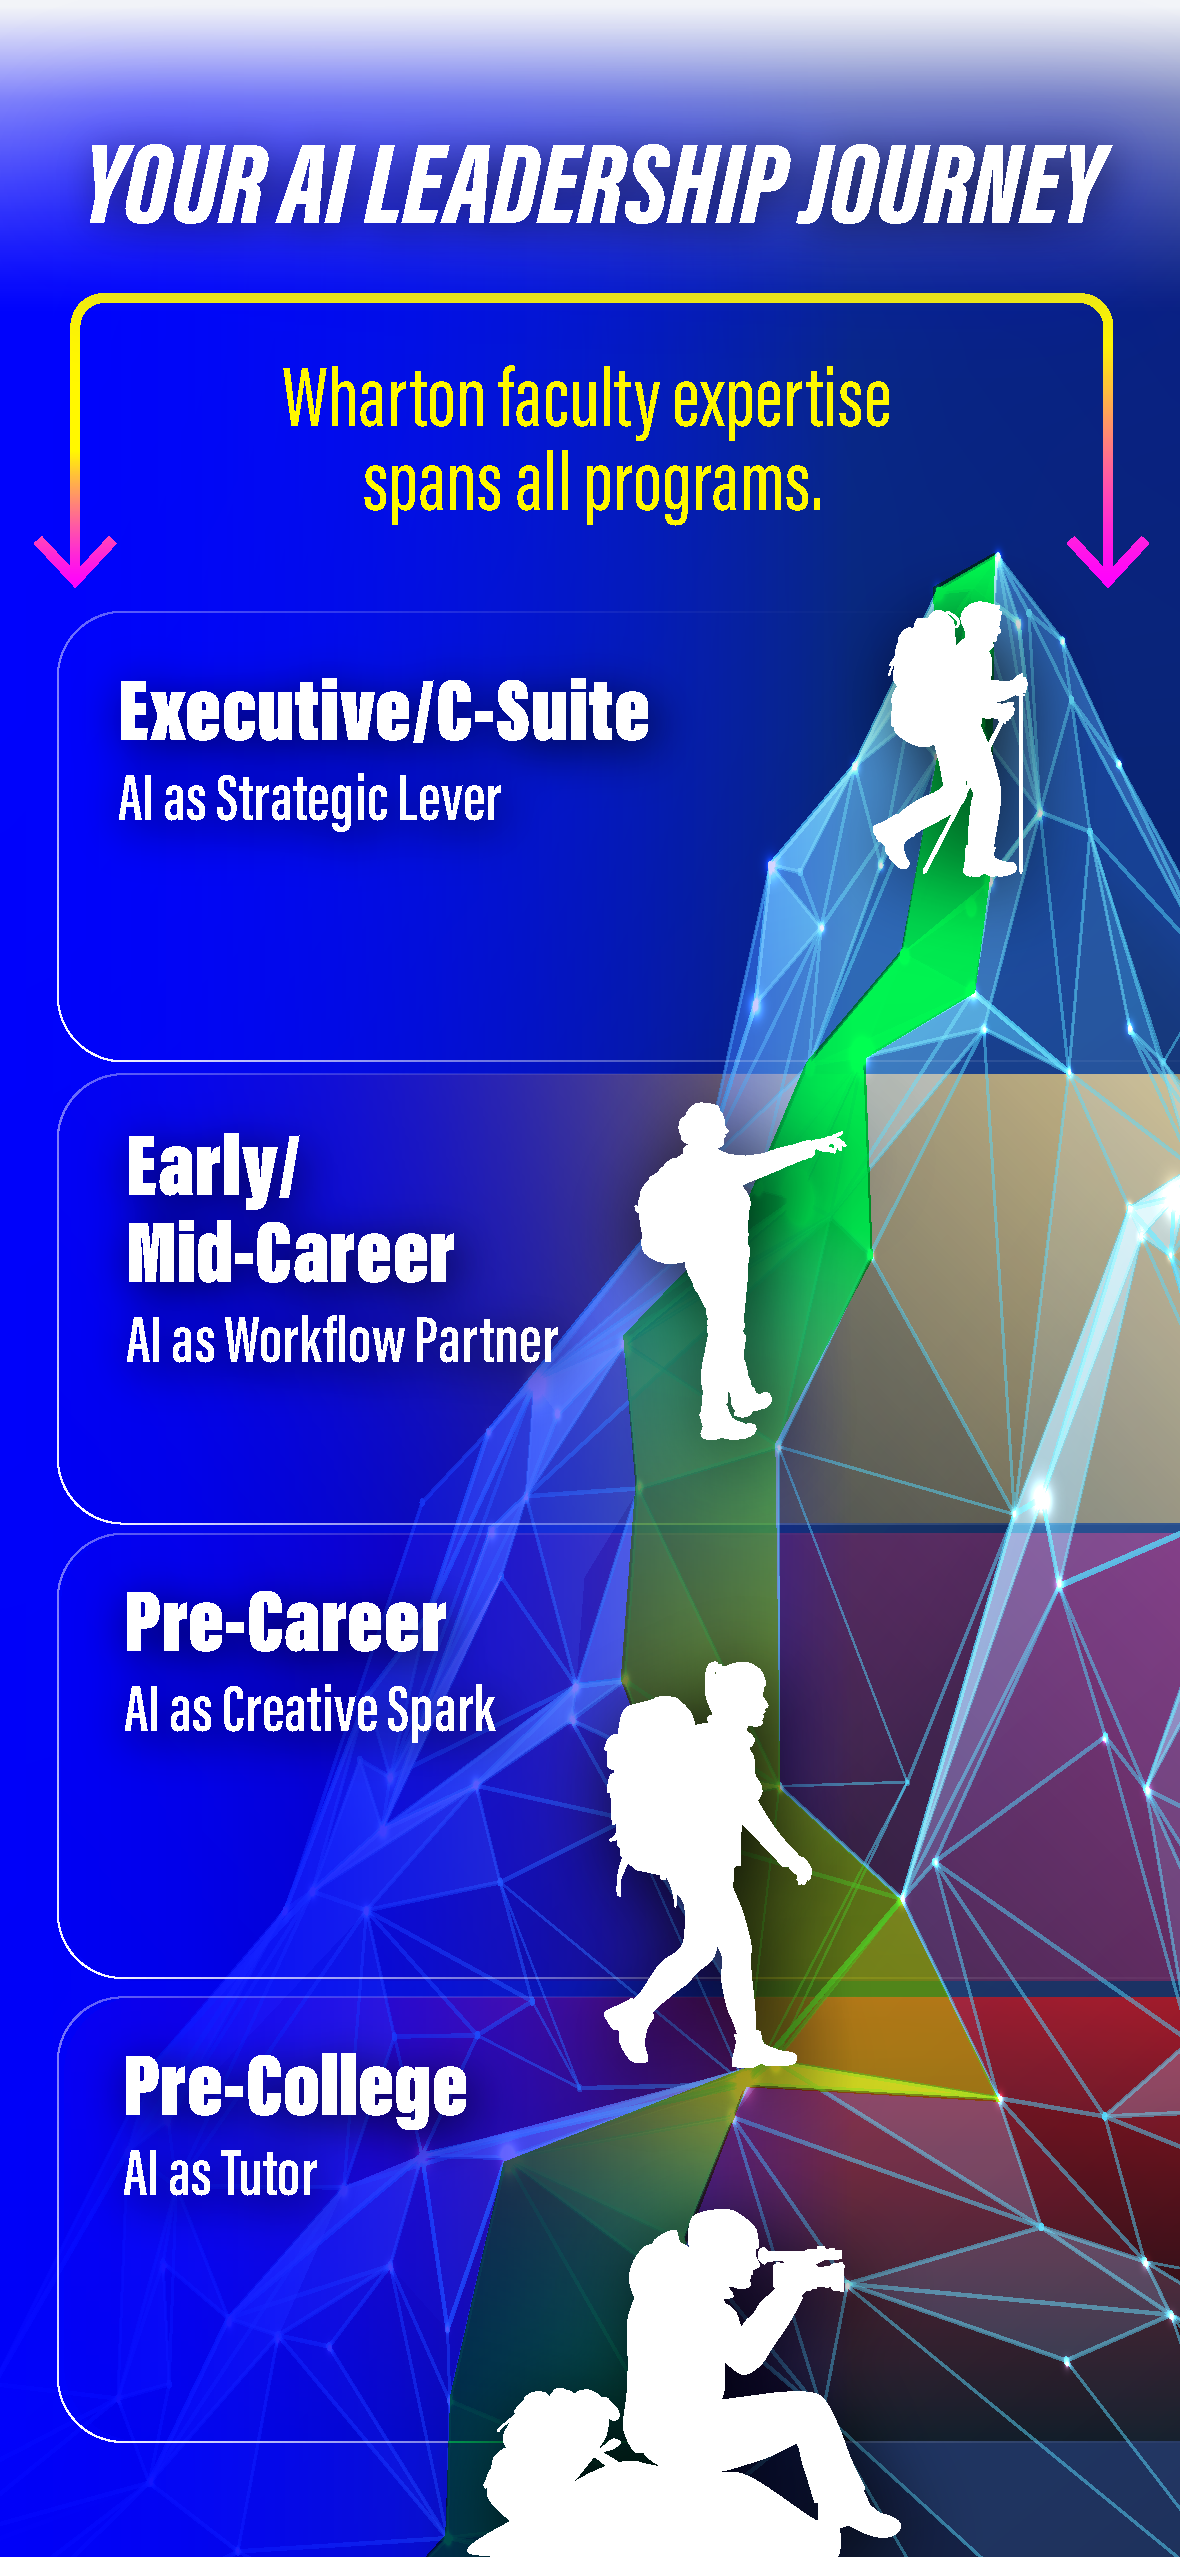
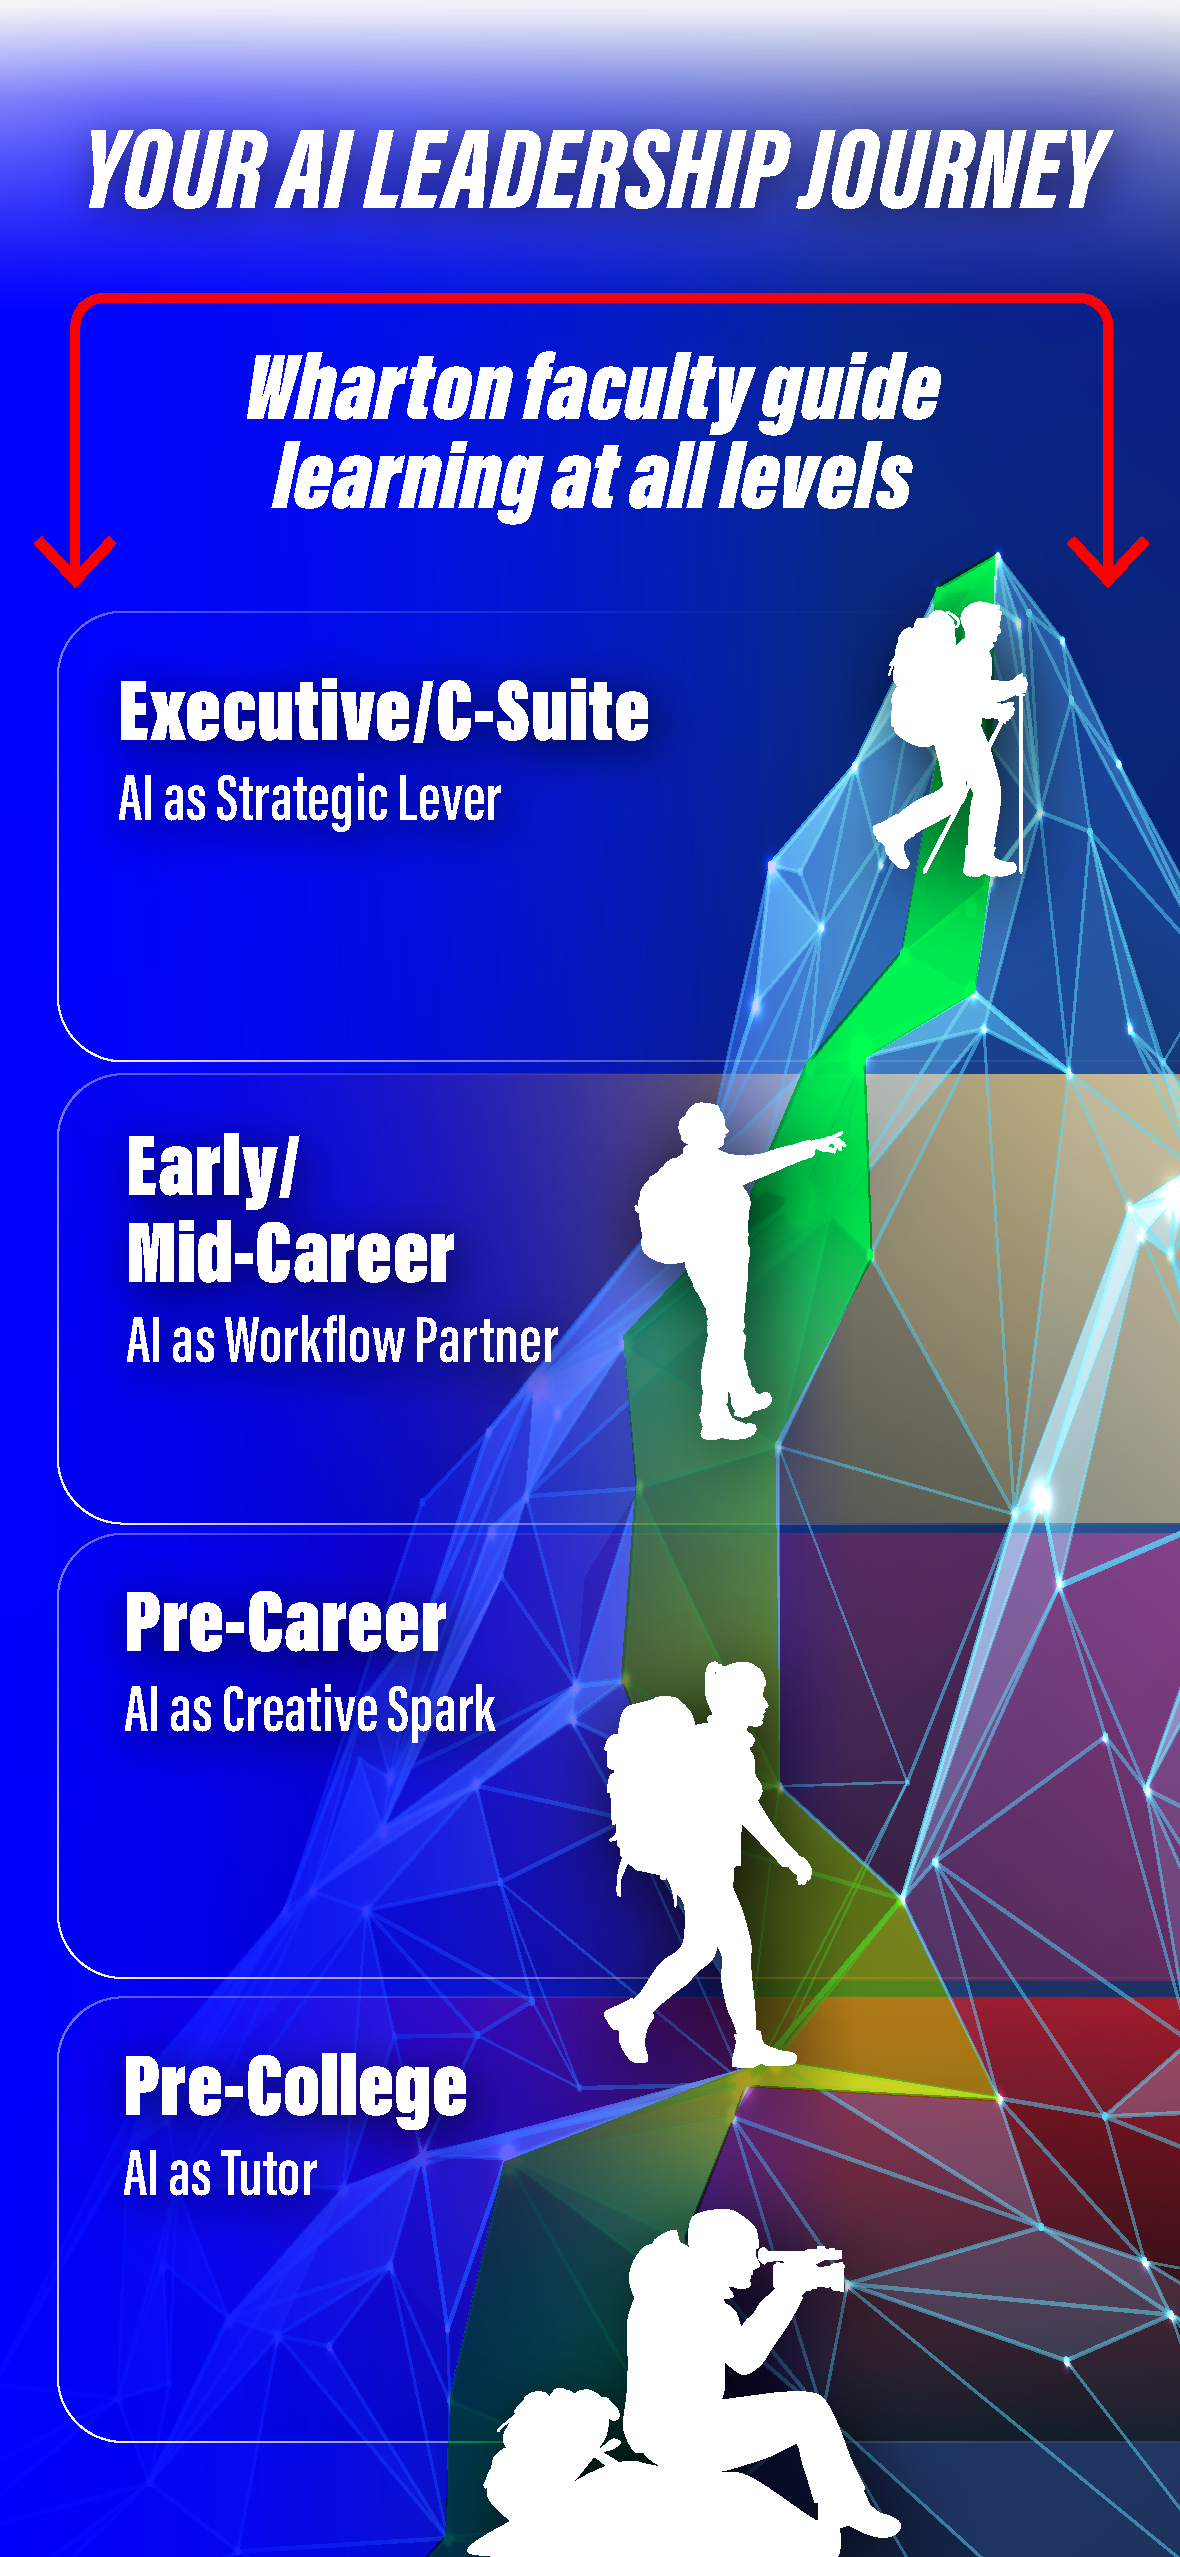
Match dean title style to Leadership Perspective, update AI journey infographic
- Render featureRow subtitle as separate tightly-stacked lines,
  matching the c-person-card__meta title/affiliation styling
  exactly (0.8125rem/0.9375rem font-size, 1.35 line-height)
- Split Erika James's title into "Dean" and "Reliance Professor
  of Management and Private Enterprise" on separate lines
- Replace the AI Leadership Journey infographic (desktop + mobile)
  with the latest versions from Marcomm

Changed region(s): [[0.0305, 0.0309, 0.9763, 0.2472]]

diff --git a/src/styles/patterns.css b/src/styles/patterns.css
@@ -38,7 +38,8 @@
   .p-story-collection .c-card--media-led::after { background: linear-gradient(180deg, rgb(0 0 0 / 44%), rgb(0 0 0 / 74%)); }
   .p-feature-row { display: grid; gap: var(--space-8); align-items: center; }
   .p-feature-row__content { display: grid; gap: var(--space-4); }
-  .p-feature-row__subtitle { color: var(--text-muted); font-family: var(--font-family-sans); font-size: 1rem; line-height: 1.5; margin: 0; }
+  .p-feature-row__subtitle-group { display: grid; gap: 0; }
+  .p-feature-row__subtitle { color: var(--text-muted); font-size: 0.8125rem; line-height: 1.35; margin: 0; }
   .p-feature-row__content .c-button { margin-block-start: var(--space-3); }
   .p-video-embed .u-container { display: grid; gap: var(--space-6); }
   .p-video-embed__content { display: grid; gap: var(--space-4); }
@@ -123,6 +124,7 @@
     .p-person-list--quote { gap: var(--space-24) var(--space-16); }
     .p-feature-row { grid-template-columns: repeat(2, minmax(0, 1fr)); }
     .p-feature-row--media-end .p-feature-row__media { order: 2; }
+    .p-feature-row__subtitle { font-size: 0.9375rem; }
   }
 
   @media (min-width: 62rem) {
